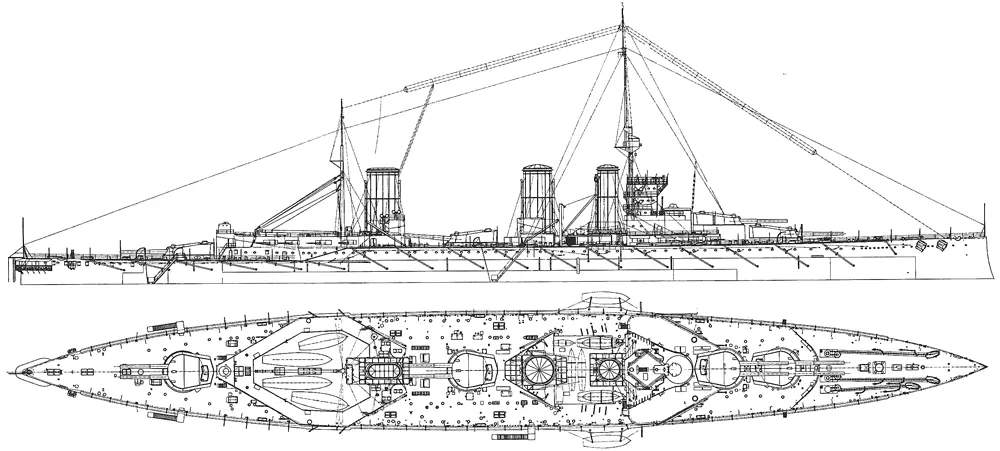
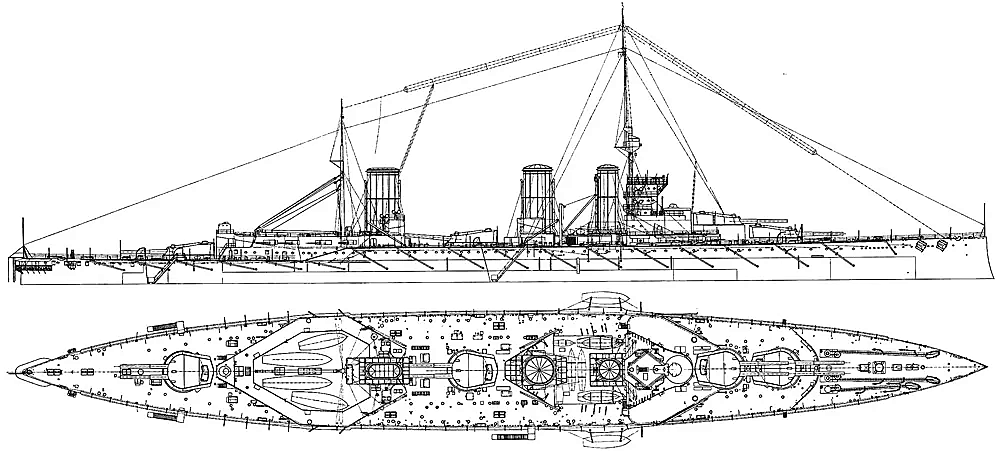
assets: clarify and harmonize the reference sheets
Normalize paper to white, deepen ink, lift sheet 02's deck fill and
smooth its grain inside the fill range only, harmonize sheet 03's fills,
and apply a gentle unsharp mask. Conservative tonal processing at the
source dimensions with every original mark preserved; the untouched
scans remain in Git history at fc71434. PROVENANCE and the SHA-256
manifest updated to match.

diff --git a/web/frontend/public/portfolio/PROVENANCE.md b/web/frontend/public/portfolio/PROVENANCE.md
@@ -1,14 +1,16 @@
 # Reference artwork
 
-The three untouched PNG sheets were supplied by the user for this portfolio on 2026-10-04:
+The three PNG sheets were supplied by the user for this portfolio on 2026-10-04:
 
 - ship-plan-01.png: 1fd9fa6e3e59c33810b83d592c6f0445.png, 1000×451.
 - ship-plan-02.png: fa34fa309156a46639b14f6711071f66.png, 1018×451.
 - ship-plan-03.png: e0f79109169de78baa73c0505855ffc7.png, 1063×542.
 
-This supersedes the earlier geometric redraw: `src/portfolio/VesselDrawing.tsx` now renders these PNGs faithfully. It nests an SVG whose viewBox is the reference band and places the whole original sheet as an `<image>` at its intrinsic pixel size, with a clipPath in source coordinates so nothing outside the band leaks in. Nothing is redrawn, traced, simplified or generated. Reference bands: 01 at y=290..451, 02 at y=290..451, 03 at y=360..542. The source PNGs remain byte-for-byte untouched and archived.
+This supersedes the earlier geometric redraw: `src/portfolio/VesselDrawing.tsx` now renders these PNGs faithfully. It nests an SVG whose viewBox is the reference band and places the whole original sheet as an `<image>` at its intrinsic pixel size, with a clipPath in source coordinates so nothing outside the band leaks in. Nothing is redrawn, traced, simplified or generated. Reference bands: 01 at y=290..451, 02 at y=290..451, 03 at y=360..542. The enhanced sheets replace the untouched scans in place; the original scans remain in Git history (see the 2026-10-05 note below).
 
-Tone is themed with a restrained SVG filter: inverse luminance becomes alpha, a mild component transfer (slope 1.08, intercept -0.035) lifts mid ink and suppresses near-paper speckle, then ink color is flooded and composited in. The result bound to source alpha. Paper is transparent and the source's own gray fills are retained as proportionally lighter ink. No blur, morphology, convolution, edge detection or superresolution is applied; output is limited to the sheets' intrinsic resolution, and as any tonal threshold does, very faint marks may be attenuated.
+Tone is themed with a restrained SVG filter: inverse luminance becomes alpha, a mild component transfer (per theme; light slope 1.2 / intercept -0.05, dark slope 1.08 / intercept -0.035) lifts mid ink and suppresses near-paper speckle, then ink color is flooded and composited in. The result bound to source alpha. Paper is transparent and the source's own gray fills are retained as proportionally lighter ink. No blur, morphology, convolution, edge detection or superresolution is applied; output is limited to the sheets' intrinsic resolution, and as any tonal threshold does, very faint marks may be attenuated.
+
+2026-10-05 clarity pass: the archived PNGs were enhanced in place (same dimensions, same filenames) with conservative tonal processing only — paper normalized to white from the reference band's 99.7 percentile, ink deepened, sheet 02's deck fill lifted (median 147→184) and its scan grain smoothed inside the fill range only, sheet 03's fills harmonized, and a gentle unsharp mask (radius 1.0) applied. No redrawing, tracing, morphology or resampling; every original mark survives. The pre-enhancement bytes remain in Git history at commit `fc71434`; current checksums are in `docs/formfield/assets/source-sha256.csv`.
 
 The one geometric element is a broad smooth hull approximation used solely as the decoration mask so construction lines do not cross the deck. It is never displayed and is not part of the reference.
 
